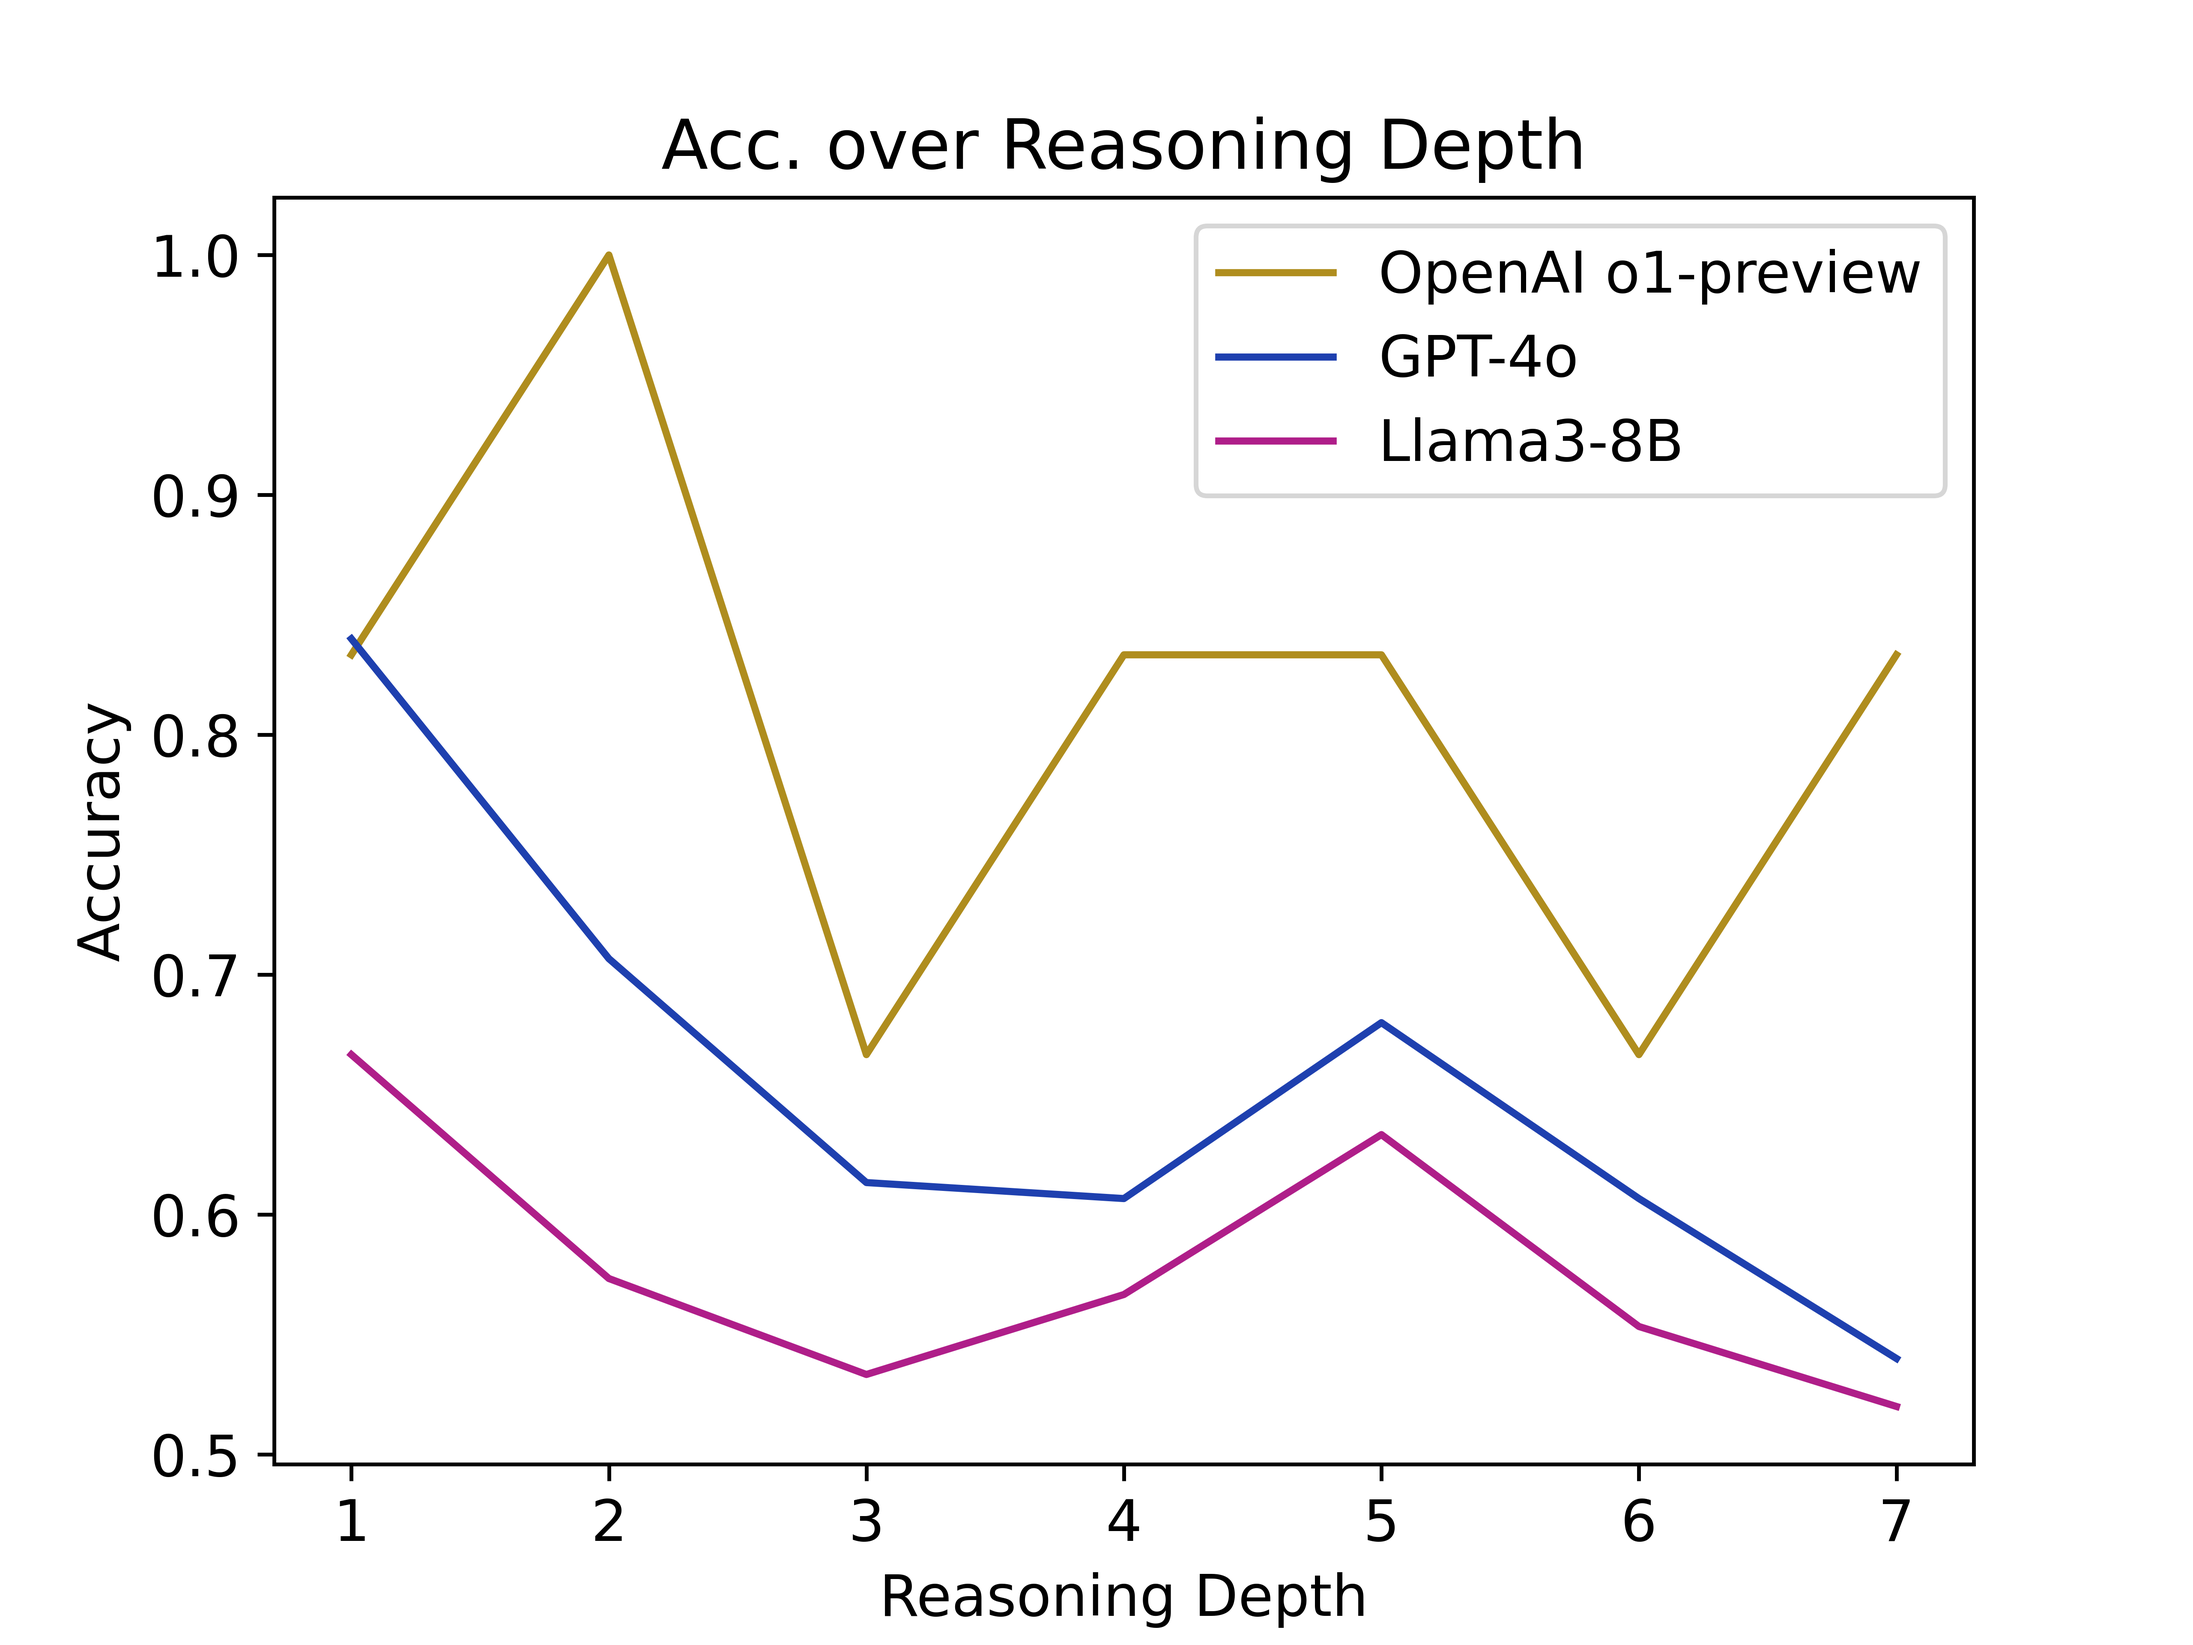
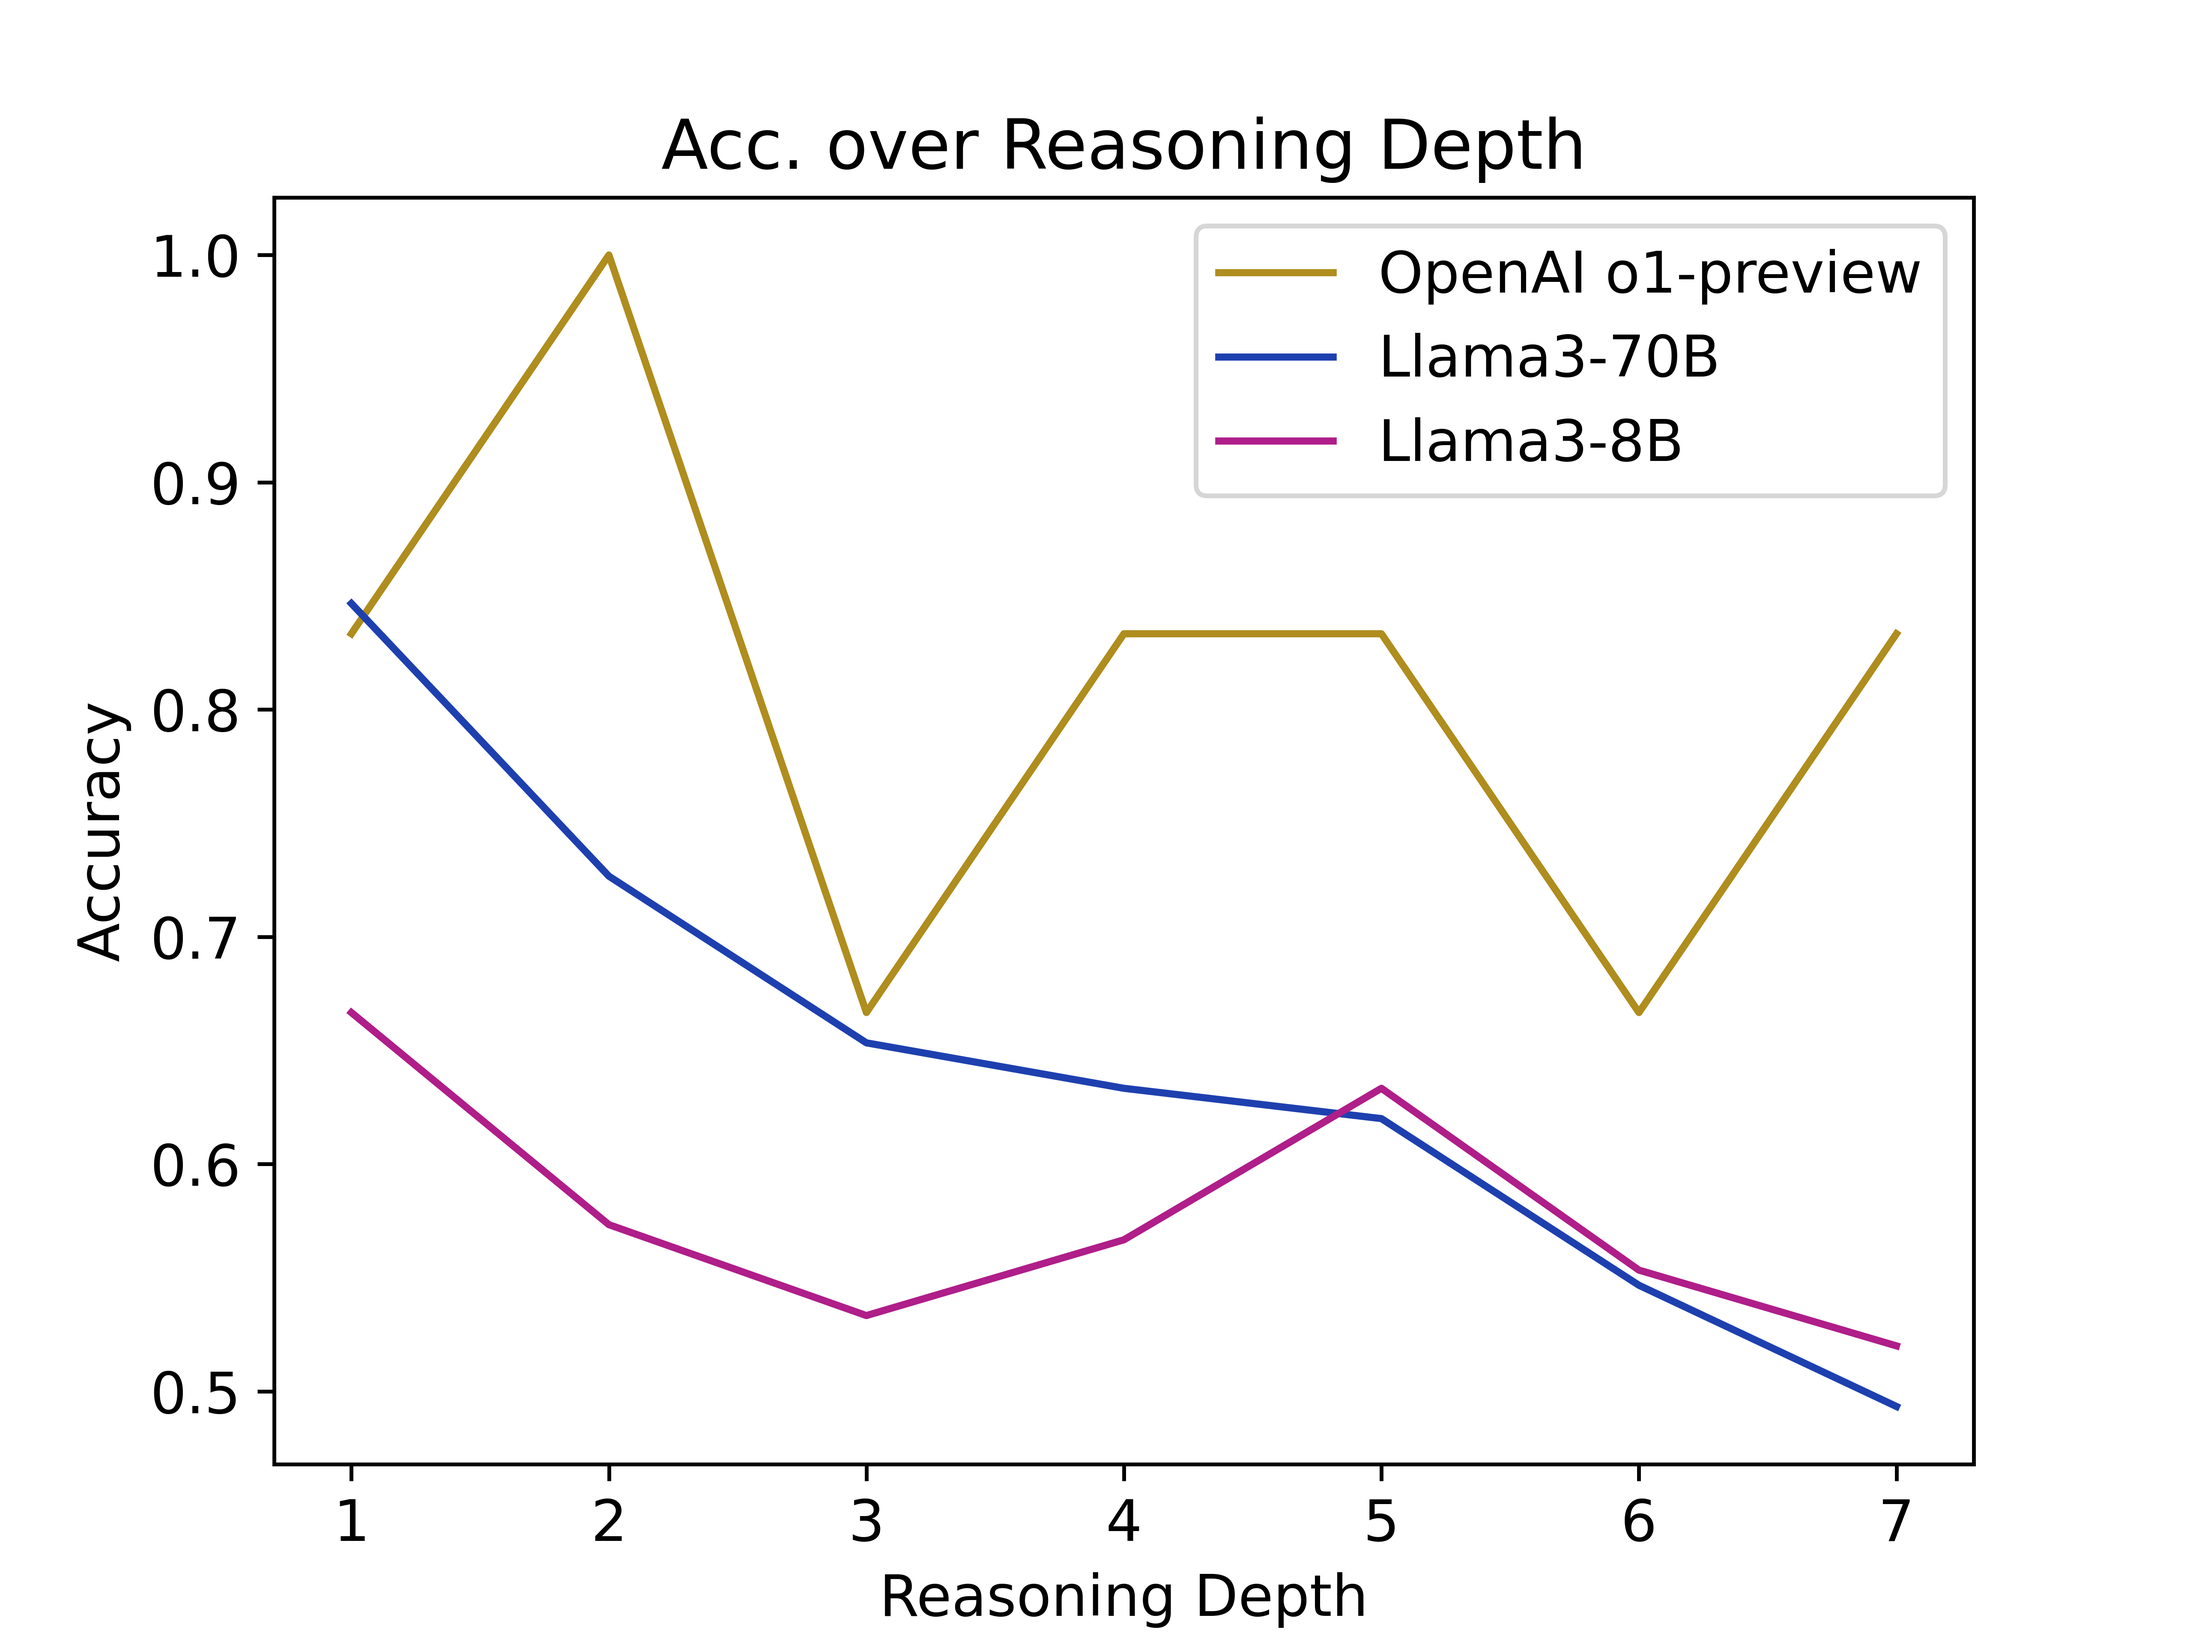
update error analysis

diff --git a/statistics/error_analysis.py b/statistics/error_analysis.py
@@ -38,8 +38,24 @@ def get_num_label_and_predicted(df):
     df['num_predicted'] = num_predicted
     return df
 
+def get_acc_over_depth_calc(df): # alt method
+    acc_over_depth = {}
+    for i in range(1,8):
+        print(i)
+        depth_df = df[df.depth == i]
+        print(depth_df.num_label.value_counts(normalize=True))
+
+        label_acc = []
+        for label in range(1,4):
+            depth_label_df = depth_df[depth_df.num_label == label]
+            matching = depth_label_df.num_label == depth_label_df.num_predicted
+            label_acc.append(matching.value_counts(normalize=True)[True])
+        acc_over_depth[i] = sum(label_acc) / 3
+    
+    return acc_over_depth
+
 def get_acc_over_depth(filenames):
-    colors = ['#AF8D1E', '#1E40AF', '#AF1E89']
+    colors = ['#AF8D1E', '#1E40AF', '#AF1E89', '#ef4444', '#34d399']
     for name, filename in filenames.items():
         df = get_dataframe(filename)
         df = get_num_label_and_predicted(df)
@@ -48,6 +64,7 @@ def get_acc_over_depth(filenames):
         for depth in df.depth.unique():
             matching = df[df.depth == depth].num_label == df[df.depth == depth].num_predicted
             acc_over_depth[depth] = matching.value_counts(normalize=True)[True]
+        # acc_over_depth = get_acc_over_depth_calc(df)
         plt.plot(acc_over_depth.keys(), acc_over_depth.values(), label=name, color=colors[0])
         colors = colors[1:]
     # human = [0.777777778,0.555555556,0.777777778,0.666666667,0.777777778,0.722222222,0.833333333]
@@ -61,7 +78,7 @@ def get_acc_over_depth(filenames):
     plt.show()
 
 def get_acc_over_arg_form(filenames):
-    colors = ['#1EAF44', '#1E40AF', '#AF1E89']
+    colors = ['#1EAF44', '#1E40AF', '#AF1E89', '#ef4444', '#34d399']
     forms = ['Modus Ponens', 'Modus Tonens', 'Hypothetical Syllogism', 'Disjunctive Syllogism', 'Reductio Ad Absurdum', 'Constructive Dilemma', 'Disjunction Elimination']
     short_forms = ['MP', 'MT', 'HS', 'DS', 'RAA', 'CD', 'DE']
     all_acc_over_form = {'Form': short_forms}
@@ -98,9 +115,10 @@ def get_acc_over_arg_form(filenames):
 
 if __name__ == "__main__":
     all_colors = ['#1E40AF', '#AF1E89', '#AF8D1E', '#1EAF44']
-    get_acc_over_arg_form({
-        # 'OpenAI o1-preview': 'eval/3_shot_cot_w_depth_openai_o1_results.csv',
+    get_acc_over_depth({
+        'OpenAI o1-preview': 'eval/3_shot_cot_w_depth_openai_o1_results.csv',
+        # 'GPT-4o': 'eval/3_shot_cot_w_depth_gpt4o_results.csv',
+        # 'GPT-4': 'eval/3_shot_cot_w_depth_gpt4_results.csv',
         'Llama3-70B': 'eval/3_shot_cot_w_depth_llama70B_results.csv',
-        'GPT-4o': 'eval/3_shot_cot_w_depth_gpt4o_results.csv',
         'Llama3-8B': 'eval/3_shot_cot_w_depth_llama8B_results.csv'
     })

diff --git a/eval/eval.py b/eval/eval.py
@@ -1,11 +1,6 @@
 import pandas as pd
 
-def eval(filename):
-    df = pd.read_csv(filename, encoding = "ISO-8859-1")
-    df.dropna(subset=['predicted'], inplace=True)
-    # df = df[df.depth == 1]
-
-    # true, false, uncertain
+def get_num_label_and_predicted(df):
     num_labels = []
     for l in df.label:
         if 'true' in l or 'True' in l or 'TRUE' in l or l == True:
@@ -25,12 +20,12 @@ def eval(filename):
         elif 'uncertain' in l or 'Uncertain' in l:
             num_predicted.append(3)
     df['num_predicted'] = num_predicted
+    return df
 
-    # df['label'] = df['label'].astype('str')
-    # df['label'] = df.label.str.lower()
-    # df['predicted'] = df['predicted'].astype('str') 
-    # df['label'] = df.label.str.lower()
-    # # df.replace({True: 'Correct', False: 'Incorrect'})
+def eval(filename):
+    df = pd.read_csv(filename, encoding = "ISO-8859-1")
+    df.dropna(subset=['predicted'], inplace=True)
+    df = get_num_label_and_predicted(df)
 
     print(df.iloc[0])
 
@@ -39,18 +34,19 @@ def eval(filename):
     print('sample size:', len(df))
     print('overall acc:', matching.value_counts(normalize=True)[True])
 
-    # for ans in pd.unique(df.label):
-    #     ans_df = df[df.label == ans]
-    #     matching = ans_df.label == ans_df.predicted
-    #     print(ans)
-    #     print('acc:', matching.value_counts(normalize=True))
-    
-    # print(df[df.label == 'true'])
-
-def majority_baseline(filename):
-    df = pd.read_csv(filename)
-    print(df.label.value_counts(normalize=True))
+# def forms_in_depth(filename):
+#     df = pd.read_csv(filename, encoding = "ISO-8859-1")
+#     df.dropna(subset=['predicted'], inplace=True)
+#     df = get_num_label_and_predicted(df)
+#     for i in range(1,8):
+#         depth_df = df[df.depth == i]
+#         forms = {'Modus Ponens': 0, 'Modus Tonens': 0, 'Hypothetical Syllogism': 0, 'Disjunctive Syllogism': 0, 'Reductio Ad Absurdum': 0, 'Constructive Dilemma': 0, 'Disjunction Elimination': 0}
+#         for arg in depth_df.arg:
+#             for form in forms.keys():
+#                 forms[form] += arg.count(form)
+#         print(i)
+#         print(forms)
 
 if __name__ == "__main__":
     # eval('context_independent_eval\ci_independent_results.csv')
-    eval('eval/3_shot_cot_w_depth_gpt4_results.csv')
+    eval('eval/3_shot_cot_w_depth_gpt4o_results.csv')
